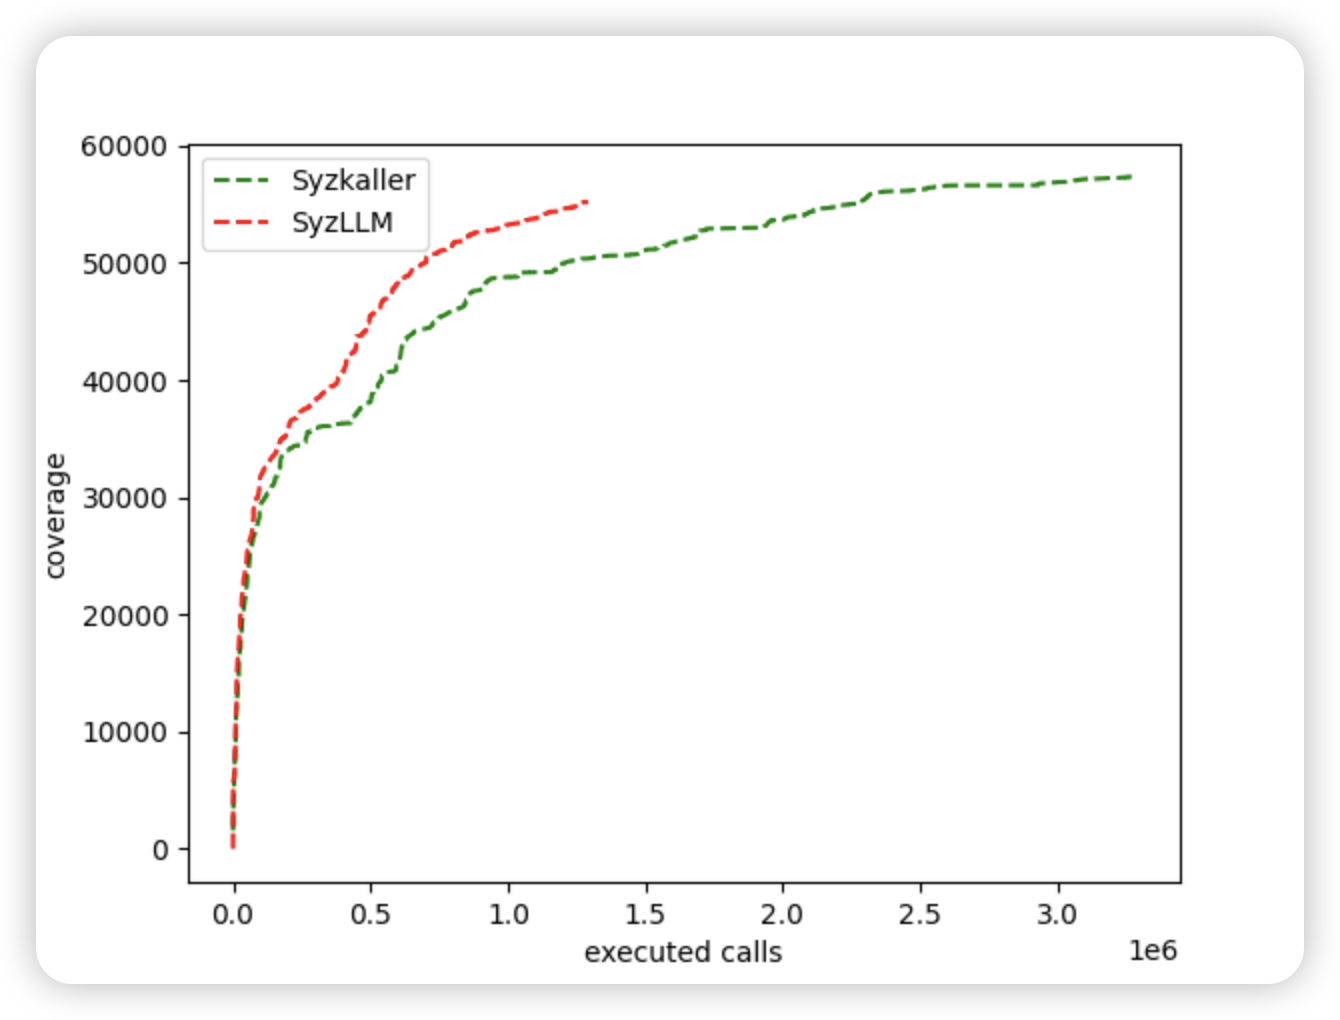
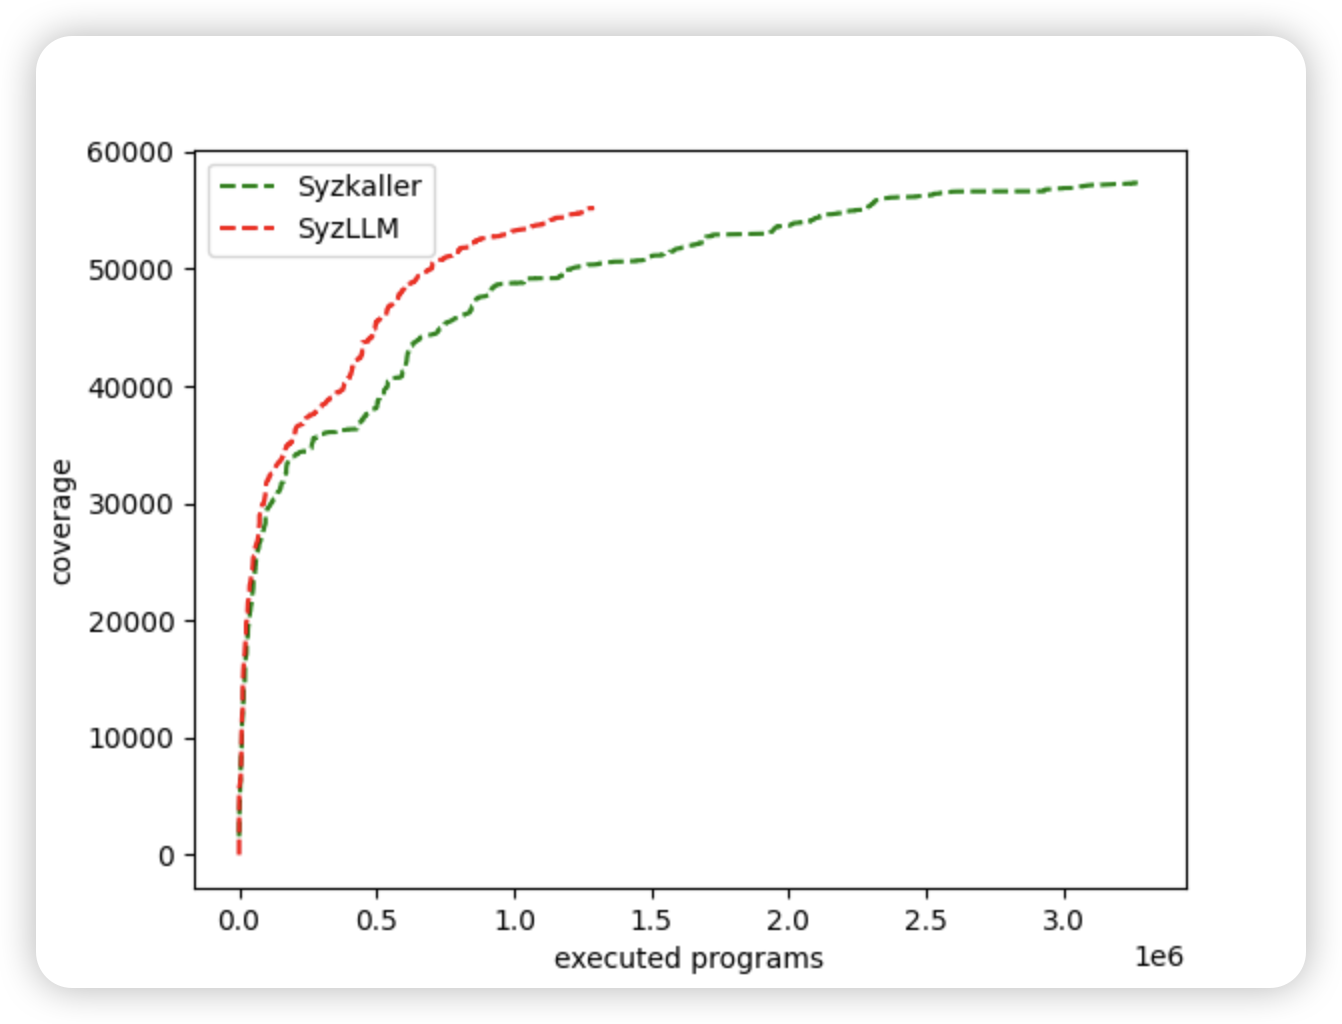
update label

Changed region(s): [[0.0306, 0.1216, 0.8873, 0.9725], [0.8261, 0.9118, 0.8873, 0.9422]]

diff --git a/documents/notes/idea.md b/documents/notes/idea.md
@@ -1,32 +1,12 @@
-## Theory
+## preprocessor
 
-Healer shows the impact of the relation learning-based CGF. But the transformer can be better than it in two aspects 1) training with position info of tokens 2) more accurate probability distribution.
+Run in syz-mamanger.
 
-> Compared to state-of-the-art kernel fuzzers such as **Syzkaller** and **Moonshine**, HEALER improves branch coverage by **28%** and **21%**, while achieving a speedup of **2.2×** and **1.8×**, respectively. In addition, HEALER detected 218 vulnerabilities, **33** of which are previously unknown and have been confirmed by the corresponding kernel maintainers.
+DFS to check if the arg of a call contains the ResultArg. And preprocessor won't replace this kind of args since can't find the ResultArg addr when parsing it from the AST format to textual.
 
-## mutation strategy
 
-Build a graph for extracted syscall relations from LLM.
 
-#### Stage 1: sequance size 0 -> 1
+## SyzLLM-client
 
-Selected serveral syscalls as init sequences according to some algos. 
-
-> E.g. select syscalls that have the highest dgree or smallest.
-
-#### Stage 2: n -> n + 1
-
-Refer to [healer](https://github.com/AmoyCherry/fuzz-with-LLM/blob/main/notes/reading.md#relation-table-guided-generation-and-mutation).
-
-> N: syscall number
-
-The time complexity of add a syscall to a sequence: 
-
-$O(SubSequanceAVGSize*N)$ -> $O(·*AVGDegree)$
-
-If it is a static graph (won't change in fuzzing process), it can be more faster by using PriorityQueue:
-
-$O(SubSequanceAVGSize)$
-
-> Considering a penalty and reward mechanism by leveraging coverage feedback. May it can be apply for seeds selection and input execution order.
+The first thing is to replace args from the arg table build in preprocessor. Called NormalizeArgs. So that the given calls can find a corresponding token in server. 
 
